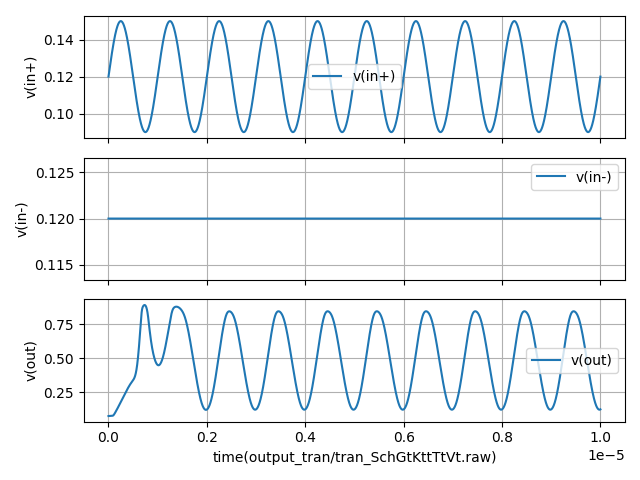
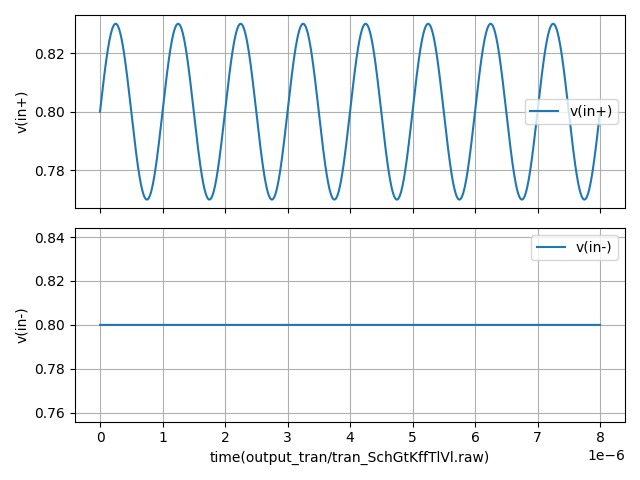
doing some ota stuff. its not working on low voltages

Changed region(s): [[0.0312, 0.0312, 0.9688, 0.9688], [0.9062, 0.9062, 0.9688, 0.9375]]

diff --git a/sim/OTA/plot.py b/sim/OTA/plot.py
@@ -1,0 +1,78 @@
+#!/usr/bin/env python3
+import yaml
+import matplotlib.pyplot as plt
+import matplotlib as mpl
+import sys
+import re
+from collections import OrderedDict
+import os
+
+
+def plot_yaml_file(fname, name, calibration_order):
+    with open(fname) as fi:
+        obj = yaml.safe_load(fi)
+
+    temps = dict()
+    for o in obj:
+        (dontcare, temp) = o.split("_")
+
+
+        #deciding calubration order
+        if (calibration_order == 1):
+            temps[int(temp)] = (float(obj[o]) -float(obj["deg_60"])) 
+        elif (calibration_order == 2):
+            temps[int(temp)] = (float(obj[o]) -float(obj["deg_60"])) *100 / ((float(obj["deg_-40"])-float(obj["deg_60"]))*1000) #ganger 1000 for å få clk cylcles
+        else:
+            temps[float(temp)] = (float(obj[o])) 
+
+    d1 = OrderedDict(sorted(temps.items()))
+    plt.plot(list(d1.keys()),list(d1.values()),label = name,linestyle="--",marker="o",markersize=5)
+
+
+
+
+def nicetoo(calibration_order):
+    
+    yaml_files = [f for f in os.listdir(folder) if f.endswith(".yaml")]
+
+    #no calibration
+    plt.figure(figsize=(20,14))
+    for file in yaml_files:
+        plot_yaml_file(os.path.join(folder, file), file, calibration_order)
+
+    plt.xlabel("time [t]")
+    plt.ylabel("Output voltage[V]")
+    plt.legend(loc='lower left', bbox_to_anchor=(0, 0))
+    plt.grid()
+    
+    save_path = os.path.join(picture_folder, picture_name + "_.png")
+    plt.savefig(save_path)
+    
+
+folder = "output_tran"
+picture_folder = "pictures"
+picture_name = "ALL_CORNERS"
+
+
+fname = sys.argv[1:]
+
+if len(sys.argv) < 2:
+    nicetoo(0)
+
+
+else:
+    plt.figure(figsize=(20,14))
+    for file in fname:
+        plot_yaml_file(os.path.join(folder, file), file, 0)
+        plt.xlabel("time [t]")
+
+    plt.ylabel("Output voltage[V]")
+    plt.legend(loc='lower left', bbox_to_anchor=(0, 0))
+    plt.grid()
+    
+    save_path = os.path.join(picture_folder, picture_name + "_" + str(0) + "_calibration.png")
+    plt.savefig(save_path)
+
+
+
+

diff --git a/sim/OTA/mc_plot.py b/sim/OTA/mc_plot.py
@@ -1,0 +1,69 @@
+#!/usr/bin/env python3
+import yaml
+import matplotlib.pyplot as plt
+import matplotlib as mpl
+import sys
+import re
+from collections import OrderedDict
+import os
+
+
+def plot_yaml_file(fname, name, calibration_order):
+    with open(fname) as fi:
+        obj = yaml.safe_load(fi)
+
+    temps = dict()
+    for o in obj:
+        (dontcare, temp) = o.split("_")
+
+
+        #deciding calubration order
+        if (calibration_order == 1):
+            temps[int(temp)] = (float(obj[o]) -float(obj["deg_60"])) 
+        elif (calibration_order == 2):
+            temps[int(temp)] = (float(obj[o]) -float(obj["deg_60"])) *100 / ((float(obj["deg_-40"])-float(obj["deg_60"]))*1000) #ganger 1000 for å få clk cylcles
+        else:
+            temps[float(temp)] = (float(obj[o])) 
+
+    d1 = OrderedDict(sorted(temps.items()))
+    plt.plot(list(d1.keys()),list(d1.values()),label = name,linestyle="--",marker="o",markersize=5)
+
+
+
+
+def nicetoo(calibration_order):
+    folder = "output_tran"
+    yaml_files = [f for f in os.listdir(folder) if f.endswith(".yaml")]
+
+    #no calibration
+    plt.figure(figsize=(20,14))
+    for file in yaml_files:
+        plot_yaml_file(os.path.join(folder, file), file, calibration_order)
+
+    plt.xlabel("time [t]")
+    plt.ylabel("Output voltage[V]")
+    plt.legend(loc='lower left', bbox_to_anchor=(0, 0))
+    plt.grid()
+    
+    save_path = os.path.join(picture_folder, picture_name + "_.png")
+    plt.savefig(save_path)
+    
+
+
+picture_folder = "pictures"
+picture_name = "MC"
+
+
+fname = sys.argv[1:]
+
+if len(sys.argv) < 2:
+    nicetoo(0)
+
+
+else:
+    for file in fname:
+        plot_yaml_file(file)
+
+
+
+

diff --git a/sim/OTA/tran.py b/sim/OTA/tran.py
@@ -12,7 +12,7 @@ def main(name):
     obj = yaml.safe_load(fi)
 
   # Do something to parameters
-  cs.rawplot(name + ".raw","time","v(in+),v(in-),v(out)",ptype="",fname="DIFF_INPUT_OTA_INPUT.png")
+  cs.rawplot(name + ".raw","time","v(in+),v(in-)",ptype="",fname="DIFF_INPUT_OTA_INPUT.png")
 
 
 

diff --git a/sim/OTA/README.md b/sim/OTA/README.md
@@ -1,0 +1,11 @@
+TB_NCM
+
+### Transient analysis (tran)
+
+Check transient operation
+
+
+
+|**Name**|**Parameter**|**Description**| |**Min**|**Typ**|**Max**| Unit|
+|:---|:---|:---|---:|:---:|:---:|:---:| ---:|
+
